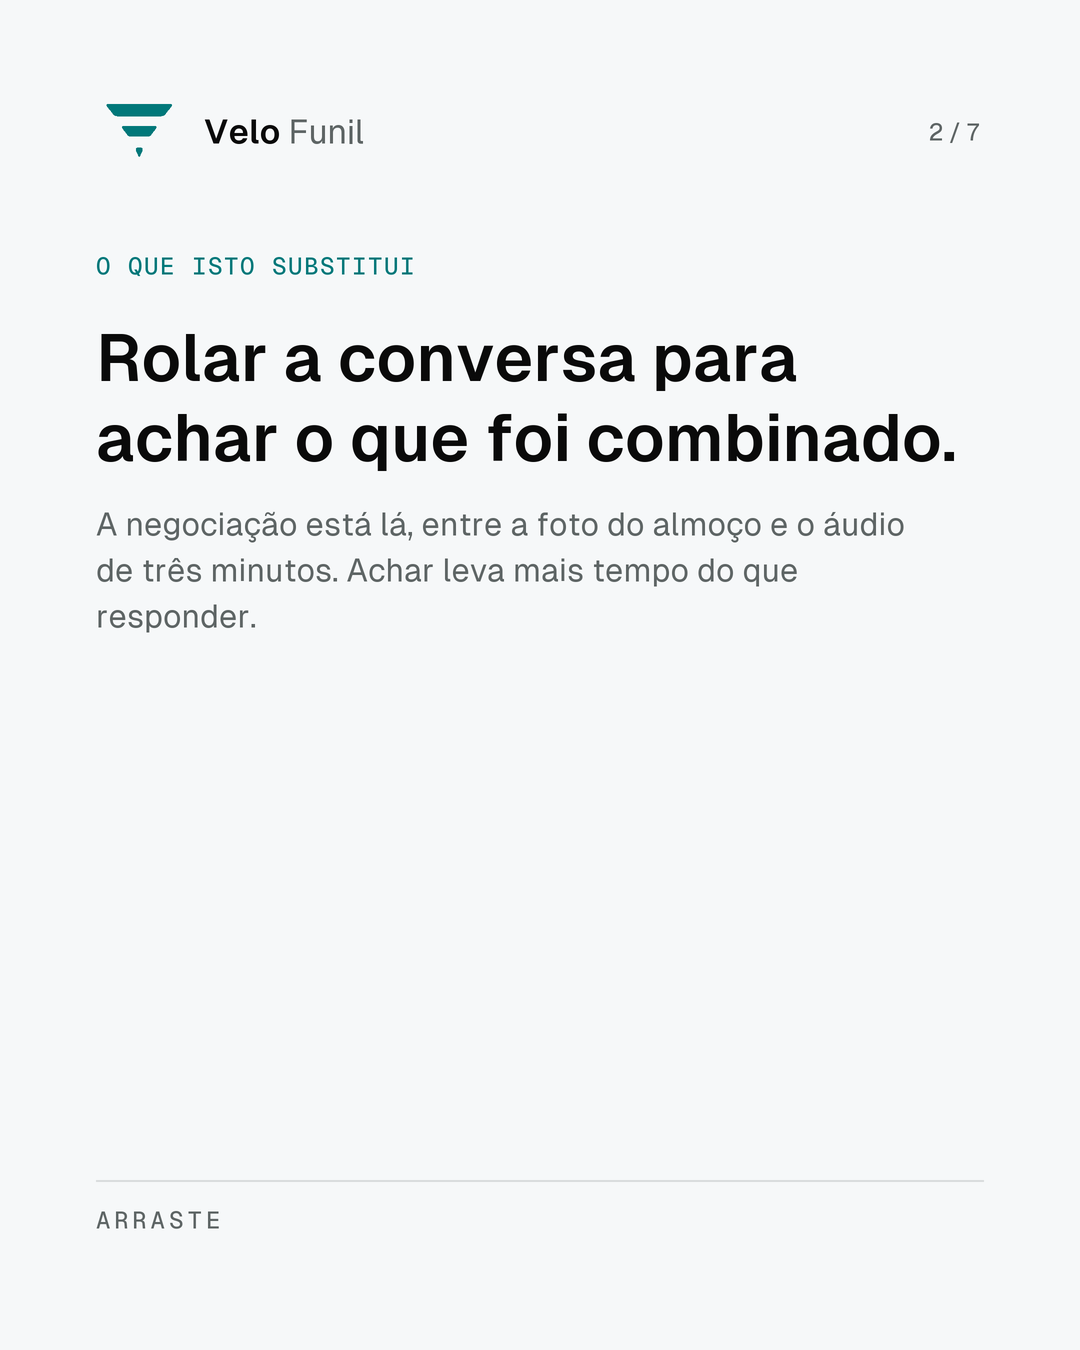
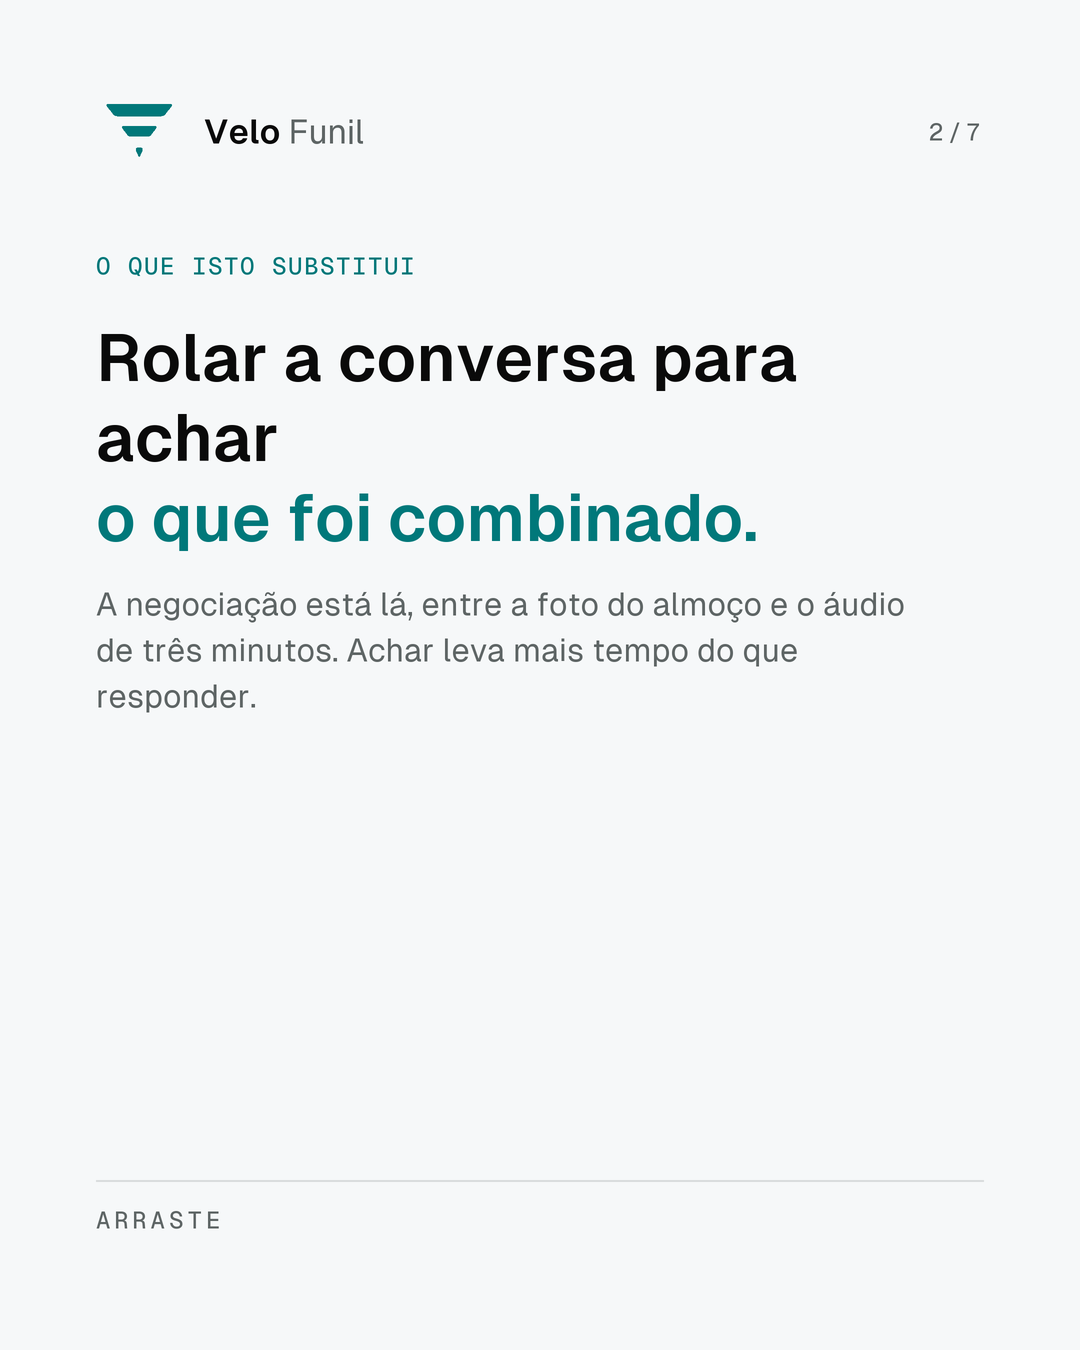
fix(marketing): cinco dos sete slides estavam com metade da peca vazia
Relato do dono, olhando os slides prontos: "o designer ta morto um pouco,
seria bom preencher mais". Ele estava certo, e o defeito era estrutural.

Os tres primeiros slides eram texto no topo e branco no resto. Vazio no FIM
e respiro, e o proprio conjunto usa isso de proposito; vazio ocupando metade
da peca, com o titulo sozinho la em cima, le como arte que nao terminou de
carregar.

## A capa MOSTRA o resultado, em vez de so prometer

Ela era tipografica. A capa e o post na grade do perfil: compete sozinha,
antes de alguem saber que ha carrossel atras, e e o unico slide que a maioria
vai ver. O framework Demo Walkthrough manda o slide 1 abrir com o RESULTADO,
e o resultado deste produto e literalmente a tela Hoje — a lista de quem esta
esperando. Prometer isso em texto com o espaco vazio embaixo desperdicava as
duas coisas.

Ela e o passo 3 usam a mesma tela com recortes diferentes: a capa mostra as
primeiras linhas, o passo 3 mostra os grupos por prazo. Mesmo enquadramento
duas vezes faria o carrossel parecer travado.

## O mapa virou grafismo, e ele carrega o conteudo

O slide 3 listava "1. o contato entra. 2. ... 3. ..." numa frase corrida.
Virou tres blocos numerados com regua vertical no acento — a mesma marca de
etapa que o card do Kanban usa, entao a peca e o produto falam a mesma
lingua visual.

O teste que separa isto de textura: **o grafismo diz algo que o texto teria
de explicar?** A escada numerada mostra que sao tres, que tem ordem e que
[…]

Changed region(s): [[0.0917, 0.3733, 0.825, 0.5289], [0.275, 0.3111, 0.8861, 0.3422]]

diff --git a/marketing/claude-designer/velofunil_criativos.py b/marketing/claude-designer/velofunil_criativos.py
@@ -561,8 +561,13 @@ def comp_carrossel(c: Tela, p: dict) -> None:
     fm = c.f("mono", "Medium", 24)
     c.texto(x, TOPO_CONTEUDO, p["rotulo"], fm, pal.destaque, 1.6)
     y = TOPO_CONTEUDO + 68
-    y += c.paragrafo(x, y, p["claim"], c.f("sans", "SemiBold", 66), pal.titulo,
-                     880, 80) + 26
+    fclaim = c.f("sans", "SemiBold", 66)
+    y += c.paragrafo(x, y, p["claim"], fclaim, pal.titulo, 880, 80)
+    # A enfase cromatica na ultima linha: em miniatura a frase inteira vira
+    # mancha, e a parte colorida e o que ainda se le.
+    if p.get("realce"):
+        y += c.paragrafo(x, y, p["realce"], fclaim, pal.destaque, 880, 80)
+    y += 26
     c.paragrafo(x, y, p["texto"], c.f("sans", "Regular", 32), pal.corpo, 820, 46)
 
     # Colunas parametrizadas: a base do campo e calculada a partir do rodape,
@@ -759,6 +764,63 @@ def comp_passo(c: Tela, p: dict) -> None:
             c.f("mono", "Medium", 24), pal.corpo, 0.16 * 24)
 
 
+def comp_passos(c: Tela, p: dict) -> None:
+    """
+    O mapa do carrossel: os passos como blocos, nao como frase corrida.
+
+    ## Por que grafismo aqui, e por que este
+
+    Os tres primeiros slides eram texto no topo e vazio no resto. Vazio no
+    FIM e respiro; vazio ocupando metade da peca, com o titulo sozinho la em
+    cima, le como arte que nao terminou de carregar.
+
+    A tentacao e preencher com textura. O teste que este projeto usa contra
+    isso: **o grafismo diz algo que o texto teria de explicar?** Barra de
+    altura escolhida a olho nao diz — e por isso o campo de barras saiu dos
+    cards de carrossel. Uma escada numerada diz: ela mostra que sao TRES,
+    que tem ordem, e que cada um e curto. A frase precisaria de tres oracoes
+    para isso, e ninguem le tres oracoes num slide.
+
+    ## A barra de progresso a esquerda
+
+    Cada passo tem uma regua vertical no acento. Juntas elas formam a
+    coluna que a leitura desce, e e o mesmo elemento que o card do Kanban
+    usa para marcar etapa: a peca e o produto falam a mesma lingua visual.
+    """
+    pal, pad = c.pal, FEED_PAD
+    x, larg = pad["lado"], c.w - 2 * pad["lado"]
+    marca(c, p["indice"])
+
+    fm = c.f("mono", "Medium", 24)
+    c.texto(x, TOPO_CONTEUDO, p["rotulo"], fm, pal.destaque, 1.6)
+
+    y = TOPO_CONTEUDO + 58
+    fclaim = c.f("sans", "SemiBold", 54)
+    y += c.paragrafo(x, y, p["claim"], fclaim, pal.titulo, larg, 64)
+    if p.get("realce"):
+        y += c.paragrafo(x, y, p["realce"], fclaim, pal.destaque, larg, 64)
+
+    rodape_y = c.h - pad["base"] - 74
+    passos = p["passos"]
+    y += 56
+    espaco = (rodape_y - 44 - y) / len(passos)
+
+    fnum = c.f("mono", "Medium", 30)
+    ftit = c.f("sans", "SemiBold", 42)
+    ftxt = c.f("sans", "Regular", 29)
+
+    for i, (titulo, apoio) in enumerate(passos):
+        by = y + i * espaco
+        # A regua no acento, do mesmo peso do marcador de etapa do Kanban.
+        c.retangulo(x, by + 4, 5, espaco - 30, pal.destaque)
+        c.texto(x + 34, by, f"0{i + 1}", fnum, pal.destaque, 0.8)
+        c.texto(x + 34, by + 46, titulo, ftit, pal.titulo)
+        c.paragrafo(x + 34, by + 102, apoio, ftxt, pal.corpo, larg - 34, 40)
+
+    c.linha_fina(x, rodape_y, larg, pal.borda, 2)
+    c.texto(x, rodape_y + 26, p.get("rodape", "ARRASTE"), fm, pal.corpo, 0.16 * 24)
+
+
 COMPOSICOES = {
     "numero": comp_numero,
     "conta": comp_conta,
@@ -767,6 +829,7 @@ COMPOSICOES = {
     "produto": comp_produto,
     "chamada": comp_chamada,
     "passo": comp_passo,
+    "passos": comp_passos,
 }
 
 # ---------------------------------------------------------------------------
@@ -928,24 +991,49 @@ PECAS = [
 # carrossel, e a trava agora escala com a contagem em vez de exigir 3 fixas.
 
 CARROSSEL_DEMO = [
-    dict(id="c1_capa", comp="carrossel", pal=CLARO,
-         rotulo="TRES TELAS", indice="1/7", rodape="ARRASTE",
-         claim="No fim do dia, o sistema diz com quem falar amanhã.",
-         texto="Não é relatório. É a lista de quem está esperando você.",
+    # ## A capa MOSTRA o resultado, nao so promete
+    #
+    # Ela era tipografica, e sobrava metade da peca em branco. A capa e o
+    # post na grade do perfil: ela compete sozinha, antes de alguem saber
+    # que ha carrossel atras, e vazio ali nao le como respiro — le como arte
+    # que nao terminou de carregar.
+    #
+    # O framework Demo Walkthrough manda o slide 1 abrir com o RESULTADO
+    # ("lead with what they get"), e o resultado deste produto e literalmente
+    # a tela Hoje: a lista de quem esta esperando. Prometer isso em texto e
+    # deixar o espaco vazio embaixo era desperdicar as duas coisas.
+    dict(id="c1_capa", comp="passo", pal=CLARO,
+         rotulo="O QUE VOCE ABRE AMANHA", indice="1/7", rodape="ARRASTE",
+         claim="O sistema já sabe",
+         realce="com quem você precisa falar.",
+         captura="04-hoje-desktop-light.png",
+         # Recorte mais fechado que o do passo 3: a capa mostra as primeiras
+         # linhas, o passo 3 mostra os grupos por prazo. Mesma tela, duas
+         # leituras — repetir o mesmo enquadramento faria o carrossel
+         # parecer travado.
+         foco=(524, 430, 2000, 1010),
          dominio=DOMAIN),
 
     dict(id="c2_dor", comp="carrossel", pal=CLARO,
          rotulo="O QUE ISTO SUBSTITUI", indice="2/7", rodape="ARRASTE",
-         claim="Rolar a conversa para achar o que foi combinado.",
+         claim="Rolar a conversa para achar",
+         realce="o que foi combinado.",
          texto="A negociação está lá, entre a foto do almoço e o áudio de "
                "três minutos. Achar leva mais tempo do que responder.",
          dominio=DOMAIN),
 
-    dict(id="c3_mapa", comp="carrossel", pal=CLARO,
+    dict(id="c3_mapa", comp="passos", pal=CLARO,
          rotulo="O CAMINHO INTEIRO", indice="3/7", rodape="ARRASTE",
-         claim="Três passos. Nenhum deles é digitar relatório.",
-         texto="1. o contato entra.  2. o negócio ganha etapa e prazo.  "
-               "3. a tela Hoje diz com quem falar.",
+         claim="Três passos. Nenhum deles",
+         realce="é digitar relatório.",
+         passos=[
+             ("O contato entra",
+              "Uma vez. Nome, empresa e telefone, e ele fica."),
+             ("O negócio ganha etapa e prazo",
+              "Arrastar o card é o trabalho inteiro."),
+             ("A tela Hoje diz com quem falar",
+              "Ela cobra sozinha o que ficou em aberto."),
+         ],
          dominio=DOMAIN),
 
     # ## Os recortes vem da tela em 2880x1800 (deviceScaleFactor 2)
@@ -1024,7 +1112,11 @@ def ocupa_celula(p: dict) -> bool:
 def textos_da_peca(p: dict) -> list:
     out = []
     for k, v in p.items():
-        if k in ("id", "comp", "pal"):
+        # `captura` e nome de ARQUIVO e `foco` sao coordenadas: nenhum dos
+        # dois chega a tela. Sem esta linha, duas pecas usando a mesma
+        # captura reprovavam por "repetir o numero 04" — o prefixo do nome
+        # do arquivo.
+        if k in ("id", "comp", "pal", "captura", "foco"):
             continue
         if isinstance(v, str):
             out.append(v)
